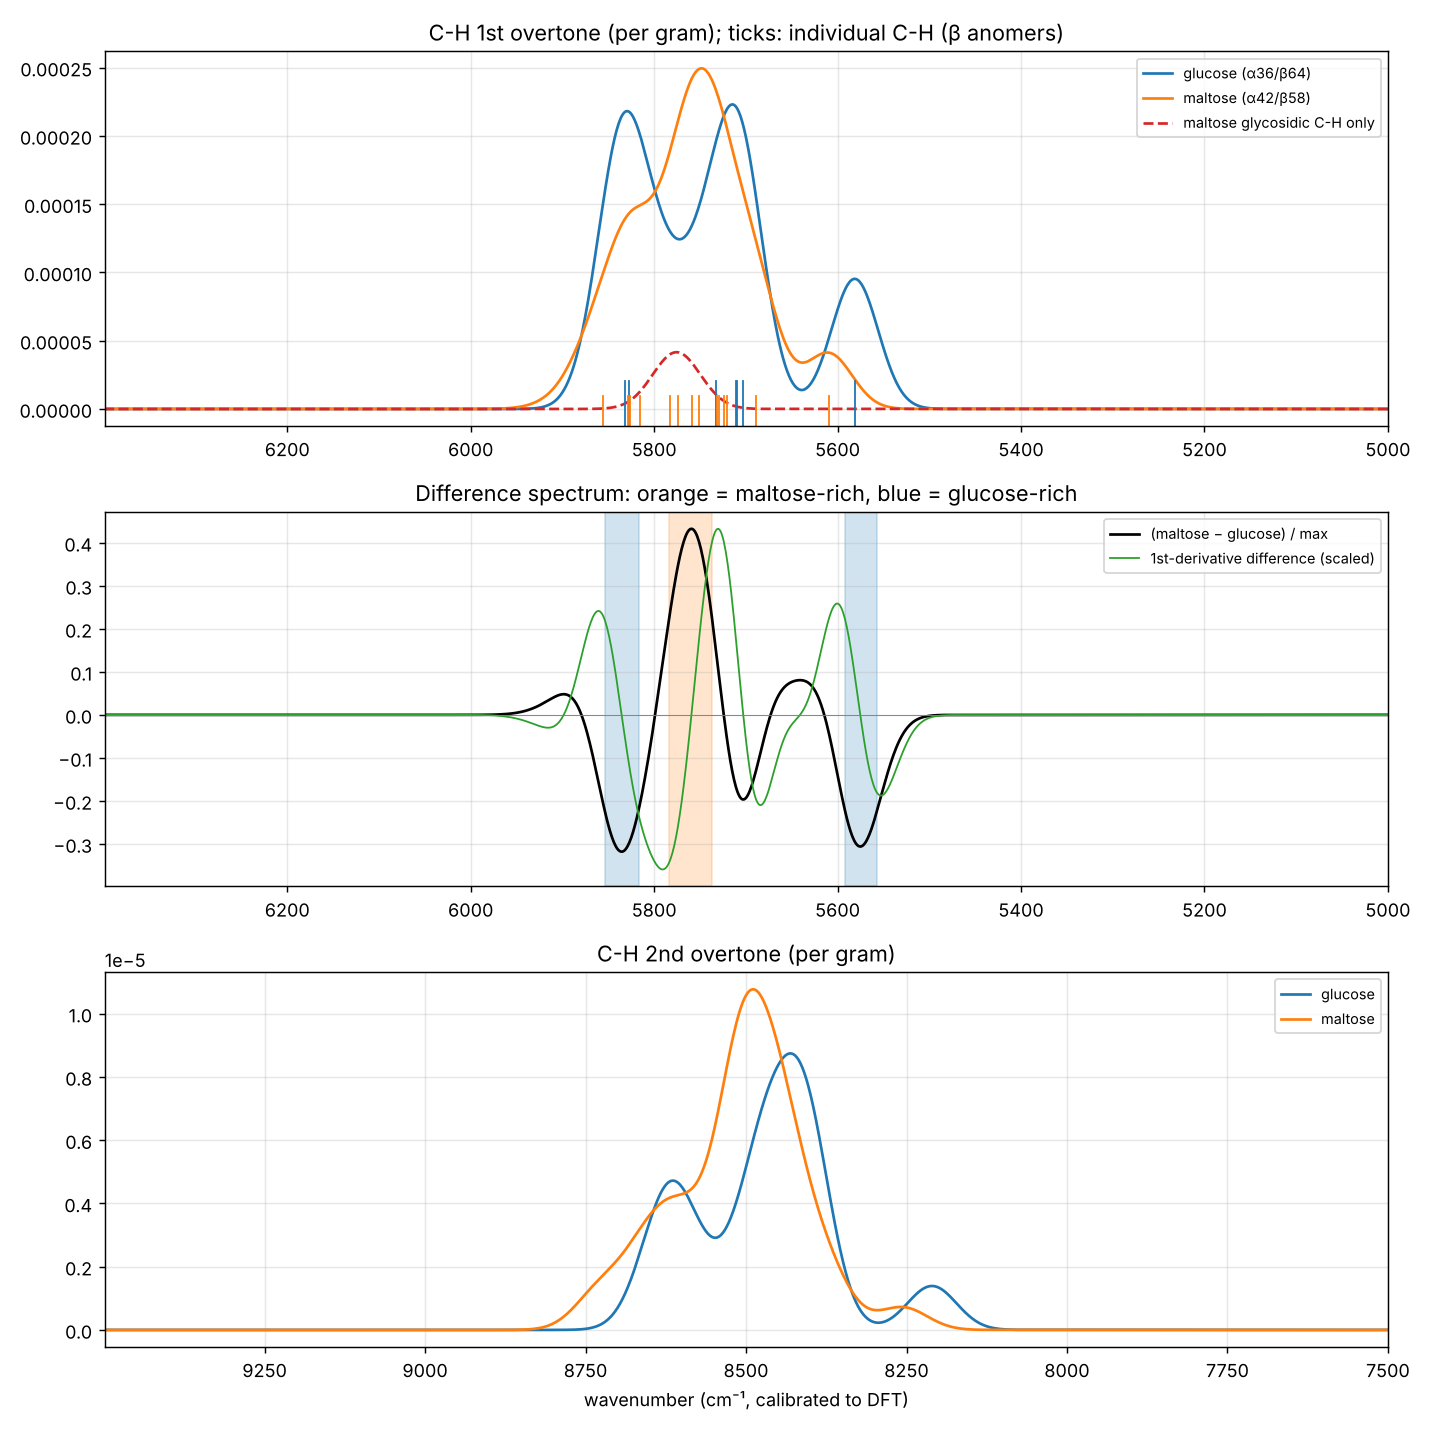
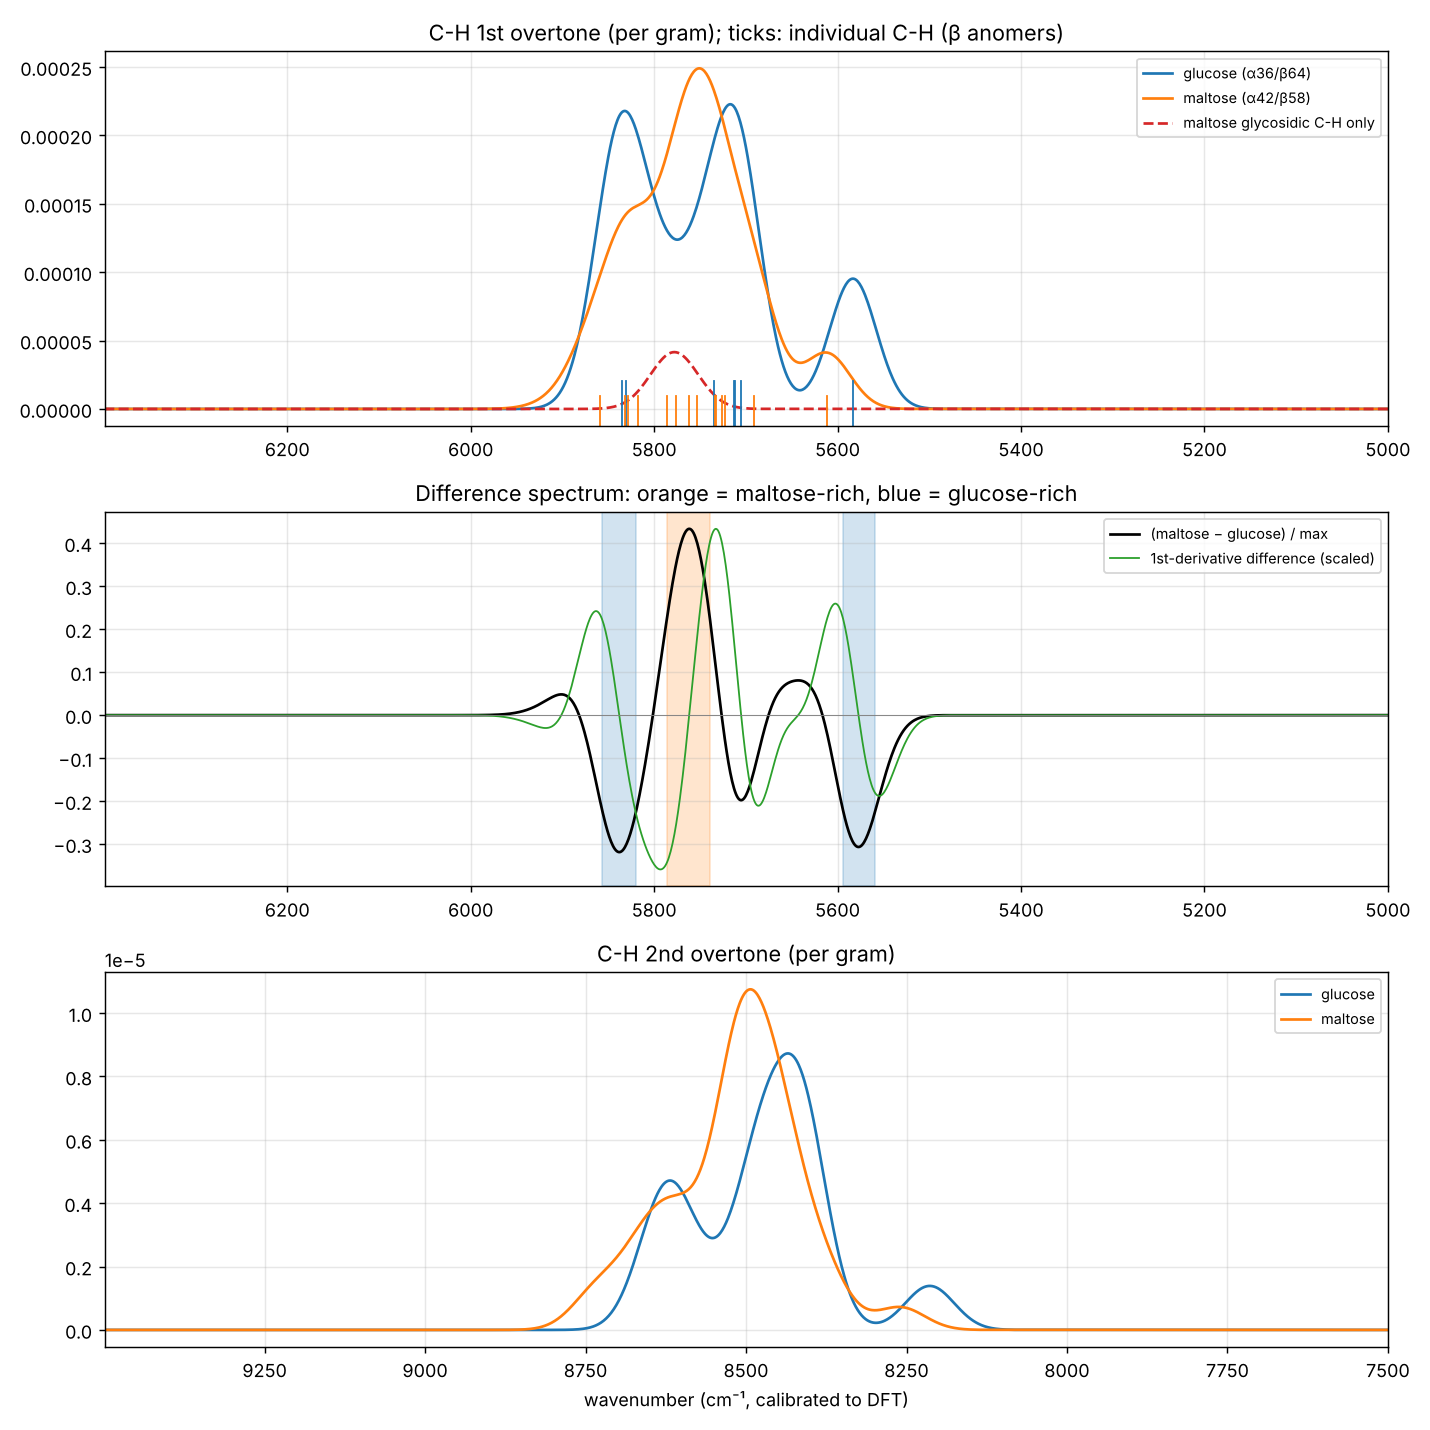
Add DFT-calibrated C-H local-mode results for glucose vs maltose
Claude-Session: https://claude.ai/code/session_012eAUzWctLyzcsK6JoLnE9m

diff --git a/results_localmode/report_cal.md b/results_localmode/report_cal.md
@@ -1,6 +1,6 @@
 # C-H local-mode 배음 계산 (GFN2-xTB → B3LYP/6-31G** 보정, 물 용매 모델)
 
-포도당 전체 C-H 1차 배음 평균 (계산 원값): 5750 cm⁻¹ (1739 nm)
+포도당 전체 C-H 1차 배음 평균 (계산 원값): 5752 cm⁻¹ (1738 nm)
 
 Δ = 해당 C-H의 1차 배음 − 포도당 평균 (cm⁻¹). 절대값보다 Δ가 더 믿을 만함.
 
@@ -8,86 +8,87 @@
 
 | 분자 | C-H | 유형 | 방향 | ωe | ωexe | 1차 배음 cm⁻¹ | Δ | 2차 배음 cm⁻¹ |
 |---|---|---|---|---|---|---|---|---|
-| a-glucose | C1-H | anomeric H-C(O5)(OH) | eq | 2917 | 68.6 | 5753 | +3 | 8484 |
-| a-glucose | C2-H | H-C-O-H | ax | 2984 | 65.2 | 5857 | +107 | 8644 |
-| a-glucose | C3-H | H-C-O-H | ax | 2891 | 69.7 | 5713 | -37 | 8419 |
-| a-glucose | C4-H | H-C-O-H | ax | 2887 | 72.5 | 5696 | -54 | 8387 |
-| a-glucose | C5-H | H-C-O-C (ring O5) | ax | 2914 | 69.6 | 5745 | -5 | 8469 |
-| a-glucose | C6-Ha | CH2-OH | CH2 | 2945 | 68.4 | 5790 | +40 | 8540 |
-| a-glucose | C6-Hb | CH2-OH | CH2 | 2980 | 65.8 | 5849 | +99 | 8634 |
-| b-glucose | C1-H | anomeric H-C(O5)(OH) | ax | 2810 | 75.4 | 5581 | -169 | 8210 |
-| b-glucose | C2-H | H-C-O-H | ax | 2904 | 69.1 | 5732 | -18 | 8449 |
-| b-glucose | C3-H | H-C-O-H | ax | 2892 | 70.8 | 5710 | -40 | 8410 |
-| b-glucose | C4-H | H-C-O-H | ax | 2894 | 71.3 | 5710 | -39 | 8412 |
-| b-glucose | C5-H | H-C-O-C (ring O5) | ax | 2888 | 71.3 | 5703 | -47 | 8402 |
-| b-glucose | C6-Ha | CH2-OH | CH2 | 2966 | 66.4 | 5828 | +78 | 8601 |
-| b-glucose | C6-Hb | CH2-OH | CH2 | 2970 | 66.3 | 5832 | +82 | 8608 |
-| b-maltose | non-red. C1-H | anomeric H-C(O5)(O-C(glyc)) | eq | 2941 | 71.3 | 5774 | +24 | 8515 |
-| b-maltose | non-red. C2-H | H-C-O-H | ax | 2927 | 70.1 | 5759 | +9 | 8488 |
-| b-maltose | non-red. C3-H | H-C-O-H | ax | 2904 | 71.2 | 5724 | -26 | 8432 |
-| b-maltose | non-red. C4-H | H-C-O-H | ax | 2883 | 72.9 | 5689 | -61 | 8376 |
-| b-maltose | non-red. C5-H | H-C-O-C (ring O5) | ax | 2925 | 71.8 | 5751 | +1 | 8474 |
-| b-maltose | non-red. C6-Ha | CH2-OH | CH2 | 2959 | 67.1 | 5815 | +65 | 8581 |
-| b-maltose | non-red. C6-Hb | CH2-OH | CH2 | 2969 | 66.8 | 5829 | +79 | 8602 |
-| b-maltose | red. C1-H | anomeric H-C(O5)(OH) | ax | 2828 | 74.3 | 5610 | -140 | 8256 |
-| b-maltose | red. C2-H | H-C-O-H | ax | 2903 | 69.2 | 5731 | -19 | 8447 |
-| b-maltose | red. C3-H | H-C-O-H | ax | 2909 | 71.5 | 5730 | -20 | 8440 |
-| b-maltose | red. C4-H | H-C-O-C(glyc) | ax | 2949 | 71.6 | 5783 | +33 | 8524 |
-| b-maltose | red. C5-H | H-C-O-C (ring O5) | ax | 2904 | 72.2 | 5721 | -29 | 8427 |
-| b-maltose | red. C6-Ha | CH2-OH | CH2 | 2968 | 67.3 | 5826 | +76 | 8598 |
-| b-maltose | red. C6-Hb | CH2-OH | CH2 | 2988 | 66.7 | 5856 | +106 | 8644 |
-| a-maltose | non-red. C1-H | anomeric H-C(O5)(O-C(glyc)) | eq | 2944 | 71.3 | 5777 | +27 | 8520 |
-| a-maltose | non-red. C2-H | H-C-O-H | ax | 2881 | 73.4 | 5685 | -65 | 8369 |
-| a-maltose | non-red. C3-H | H-C-O-H | ax | 2910 | 70.7 | 5734 | -16 | 8447 |
-| a-maltose | non-red. C4-H | H-C-O-H | ax | 2887 | 72.4 | 5696 | -54 | 8388 |
-| a-maltose | non-red. C5-H | H-C-O-C (ring O5) | ax | 2912 | 73.1 | 5728 | -22 | 8437 |
-| a-maltose | non-red. C6-Ha | CH2-OH | CH2 | 2998 | 65.1 | 5875 | +125 | 8676 |
-| a-maltose | non-red. C6-Hb | CH2-OH | CH2 | 2915 | 71.1 | 5740 | -10 | 8458 |
-| a-maltose | red. C1-H | anomeric H-C(O5)(OH) | eq | 2920 | 68.0 | 5758 | +8 | 8494 |
-| a-maltose | red. C2-H | H-C-O-H | ax | 2984 | 65.4 | 5856 | +106 | 8642 |
-| a-maltose | red. C3-H | H-C-O-H | ax | 2914 | 69.8 | 5743 | -7 | 8465 |
-| a-maltose | red. C4-H | H-C-O-C(glyc) | ax | 2938 | 72.3 | 5765 | +15 | 8495 |
-| a-maltose | red. C5-H | H-C-O-C (ring O5) | ax | 2935 | 70.0 | 5770 | +20 | 8506 |
-| a-maltose | red. C6-Ha | CH2-OH | CH2 | 2935 | 69.3 | 5774 | +24 | 8515 |
-| a-maltose | red. C6-Hb | CH2-OH | CH2 | 3025 | 65.2 | 5911 | +161 | 8729 |
+| a-glucose | C1-H | anomeric H-C(O5)(OH) | eq | 2917 | 68.6 | 5755 | +3 | 8488 |
+| a-glucose | C2-H | H-C-O-H | ax | 2984 | 65.2 | 5859 | +107 | 8648 |
+| a-glucose | C3-H | H-C-O-H | ax | 2891 | 69.7 | 5715 | -37 | 8423 |
+| a-glucose | C4-H | H-C-O-H | ax | 2887 | 72.5 | 5698 | -54 | 8391 |
+| a-glucose | C5-H | H-C-O-C (ring O5) | ax | 2914 | 69.6 | 5747 | -5 | 8473 |
+| a-glucose | C6-Ha | CH2-OH | CH2 | 2945 | 68.4 | 5793 | +40 | 8544 |
+| a-glucose | C6-Hb | CH2-OH | CH2 | 2980 | 65.8 | 5851 | +99 | 8639 |
+| b-glucose | C1-H | anomeric H-C(O5)(OH) | ax | 2810 | 75.4 | 5583 | -169 | 8214 |
+| b-glucose | C2-H | H-C-O-H | ax | 2904 | 69.1 | 5735 | -18 | 8453 |
+| b-glucose | C3-H | H-C-O-H | ax | 2892 | 70.8 | 5712 | -40 | 8414 |
+| b-glucose | C4-H | H-C-O-H | ax | 2894 | 71.3 | 5713 | -40 | 8416 |
+| b-glucose | C5-H | H-C-O-C (ring O5) | ax | 2888 | 71.3 | 5705 | -47 | 8406 |
+| b-glucose | C6-Ha | CH2-OH | CH2 | 2966 | 66.4 | 5830 | +78 | 8605 |
+| b-glucose | C6-Hb | CH2-OH | CH2 | 2970 | 66.3 | 5835 | +83 | 8613 |
+| b-maltose | non-red. C1-H | anomeric H-C(O5)(O-C(glyc)) | eq | 2941 | 71.3 | 5776 | +24 | 8520 |
+| b-maltose | non-red. C2-H | H-C-O-H | ax | 2927 | 70.1 | 5762 | +9 | 8493 |
+| b-maltose | non-red. C3-H | H-C-O-H | ax | 2904 | 71.2 | 5726 | -26 | 8436 |
+| b-maltose | non-red. C4-H | H-C-O-H | ax | 2883 | 72.9 | 5691 | -61 | 8380 |
+| b-maltose | non-red. C5-H | H-C-O-C (ring O5) | ax | 2925 | 71.8 | 5753 | +1 | 8478 |
+| b-maltose | non-red. C6-Ha | CH2-OH | CH2 | 2959 | 67.1 | 5818 | +66 | 8586 |
+| b-maltose | non-red. C6-Hb | CH2-OH | CH2 | 2969 | 66.8 | 5831 | +79 | 8607 |
+| b-maltose | red. C1-H | anomeric H-C(O5)(OH) | ax | 2828 | 74.3 | 5612 | -141 | 8260 |
+| b-maltose | red. C2-H | H-C-O-H | ax | 2903 | 69.2 | 5734 | -19 | 8451 |
+| b-maltose | red. C3-H | H-C-O-H | ax | 2909 | 71.5 | 5732 | -20 | 8444 |
+| b-maltose | red. C4-H | H-C-O-C(glyc) | ax | 2949 | 71.6 | 5786 | +33 | 8528 |
+| b-maltose | red. C5-H | H-C-O-C (ring O5) | ax | 2904 | 72.2 | 5723 | -29 | 8431 |
+| b-maltose | red. C6-Ha | CH2-OH | CH2 | 2968 | 67.3 | 5829 | +77 | 8602 |
+| b-maltose | red. C6-Hb | CH2-OH | CH2 | 2988 | 66.7 | 5859 | +106 | 8649 |
+| a-maltose | non-red. C1-H | anomeric H-C(O5)(O-C(glyc)) | eq | 2944 | 71.3 | 5780 | +27 | 8524 |
+| a-maltose | non-red. C2-H | H-C-O-H | ax | 2881 | 73.4 | 5687 | -66 | 8373 |
+| a-maltose | non-red. C3-H | H-C-O-H | ax | 2910 | 70.7 | 5736 | -16 | 8451 |
+| a-maltose | non-red. C4-H | H-C-O-H | ax | 2887 | 72.4 | 5699 | -54 | 8392 |
+| a-maltose | non-red. C5-H | H-C-O-C (ring O5) | ax | 2912 | 73.1 | 5730 | -22 | 8441 |
+| a-maltose | non-red. C6-Ha | CH2-OH | CH2 | 2998 | 65.1 | 5878 | +125 | 8681 |
+| a-maltose | non-red. C6-Hb | CH2-OH | CH2 | 2915 | 71.1 | 5742 | -10 | 8462 |
+| a-maltose | red. C1-H | anomeric H-C(O5)(OH) | eq | 2920 | 68.0 | 5761 | +8 | 8498 |
+| a-maltose | red. C2-H | H-C-O-H | ax | 2984 | 65.4 | 5858 | +106 | 8647 |
+| a-maltose | red. C3-H | H-C-O-H | ax | 2914 | 69.8 | 5745 | -7 | 8469 |
+| a-maltose | red. C4-H | H-C-O-C(glyc) | ax | 2938 | 72.3 | 5768 | +15 | 8500 |
+| a-maltose | red. C5-H | H-C-O-C (ring O5) | ax | 2935 | 70.0 | 5773 | +21 | 8510 |
+| a-maltose | red. C6-Ha | CH2-OH | CH2 | 2935 | 69.3 | 5776 | +24 | 8519 |
+| a-maltose | red. C6-Hb | CH2-OH | CH2 | 3025 | 65.2 | 5913 | +161 | 8734 |
 
 ## 2. 유형별 평균 (모든 분자, Δ cm⁻¹, ± 표준편차, 개수)
 
 | 유형 | 축 C-H | 적도 C-H | 전체 |
 |---|---|---|---|
-| CH2-OH | – | – | +77 ± 43 (n=12) |
+| CH2-OH | – | – | +77 ± 44 (n=12) |
 | H-C-O-C (ring O5) | -14 ± 22 (n=6) | – | -14 ± 22 (n=6) |
 | H-C-O-C(glyc) | +24 ± 9 (n=2) | – | +24 ± 9 (n=2) |
 | H-C-O-H | -15 ± 50 (n=16) | – | -15 ± 50 (n=16) |
 | anomeric H-C(O5)(O-C(glyc)) | – | +26 ± 2 (n=2) | +26 ± 2 (n=2) |
-| anomeric H-C(O5)(OH) | -154 ± 14 (n=2) | +6 ± 3 (n=2) | -74 ± 81 (n=4) |
+| anomeric H-C(O5)(OH) | -155 ± 14 (n=2) | +6 ± 3 (n=2) | -75 ± 81 (n=4) |
 | (방향만) ax | | | -22 ± 57 (n=26) |
 | (방향만) eq | | | +16 ± 10 (n=4) |
-| (방향만) CH2 | | | +77 ± 43 (n=12) |
+| (방향만) CH2 | | | +77 ± 44 (n=12) |
 
 ## 3. 포도당 vs 말토오스 (그램당, 아노머 비율 반영, C-H당 FWHM 60 cm⁻¹ 가정)
 
-- 말토오스가 더 큰 구간 (차이 > 최대의 50 %): 5737–5784 cm⁻¹ (Δ -13~+34)
-- 포도당이 더 큰 구간: 5557–5592 cm⁻¹ (Δ -193~-158), 5817–5854 cm⁻¹ (Δ +67~+104)
-- 말토오스 글리코시드 C-H(비환원 C1-H, 환원 C4-H) 밴드 중심: b-maltose non-red. C1-H 5774 (Δ +24), b-maltose red. C4-H 5783 (Δ +33), a-maltose non-red. C1-H 5777 (Δ +27), a-maltose red. C4-H 5765 (Δ +15)
-- 최대 상대 차이 |Δ스펙트럼|/최대흡광: 0.432
+- 말토오스가 더 큰 구간 (차이 > 최대의 50 %): 5739–5786 cm⁻¹ (Δ -13~+34)
+- 포도당이 더 큰 구간: 5559–5594 cm⁻¹ (Δ -193~-158), 5820–5857 cm⁻¹ (Δ +68~+105)
+- 말토오스 글리코시드 C-H(비환원 C1-H, 환원 C4-H) 밴드 중심: b-maltose non-red. C1-H 5776 (Δ +24), b-maltose red. C4-H 5786 (Δ +33), a-maltose non-red. C1-H 5780 (Δ +27), a-maltose red. C4-H 5768 (Δ +15)
+- 최대 상대 차이 |Δ스펙트럼|/최대흡광: 0.433
 
 ## 4. xTB → DFT 보정 (1차 배음)
 
-DFT = 2109 + 0.672 × xTB  (쌍 8개, 잔차 RMSE 28 cm⁻¹)
+DFT = 2102 + 0.674 × xTB  (쌍 9개, 잔차 RMSE 27 cm⁻¹)
 
 | 분자 | C-H | 유형 | xTB | DFT | 보정 xTB |
 |---|---|---|---|---|---|
-| b-glucose | C1-H | anomeric H-C(O5)(OH) | 5171 | 5595 | 5584 |
-| b-glucose | C2-H | H-C-O-H | 5484 | 5754 | 5794 |
-| b-glucose | C4-H | H-C-O-H | 5437 | 5727 | 5762 |
-| b-glucose | C5-H | H-C-O-C (ring O5) | 5400 | 5723 | 5737 |
-| b-glucose | C6-Ha | CH2-OH | 5689 | 5917 | 5932 |
-| a-glucose | C1-H | anomeric H-C(O5)(OH) | 5499 | 5836 | 5804 |
-| a-glucose | C2-H | H-C-O-H | 5650 | 5932 | 5905 |
-| me-a-glucoside | C1-H | anomeric H-C(O5)(O-C(glyc)) | 5447 | 5802 | 5769 |
+| b-glucose | C1-H | anomeric H-C(O5)(OH) | 5171 | 5595 | 5586 |
+| b-glucose | C2-H | H-C-O-H | 5484 | 5754 | 5796 |
+| b-glucose | C4-H | H-C-O-H | 5437 | 5727 | 5765 |
+| b-glucose | C5-H | H-C-O-C (ring O5) | 5400 | 5723 | 5739 |
+| b-glucose | C6-Ha | CH2-OH | 5689 | 5917 | 5934 |
+| a-glucose | C1-H | anomeric H-C(O5)(OH) | 5499 | 5836 | 5806 |
+| a-glucose | C2-H | H-C-O-H | 5650 | 5932 | 5908 |
+| me-a-glucoside | C1-H | anomeric H-C(O5)(O-C(glyc)) | 5447 | 5802 | 5771 |
+| 4-OMe-b-glucose | C4-H | H-C-O-C(glyc) | 5487 | 5818 | 5798 |
 
 ## 5. 파장으로 환산한 결과 (보정값)
 
-- 말토오스가 더 큰 구간: 5737–5784 cm⁻¹ = 1729–1743 nm
-- 포도당이 더 큰 구간: 5557–5592 cm⁻¹ = 1788–1800 nm, 5817–5854 cm⁻¹ = 1708–1719 nm
+- 말토오스가 더 큰 구간: 5739–5786 cm⁻¹ = 1728–1742 nm
+- 포도당이 더 큰 구간: 5559–5594 cm⁻¹ = 1788–1799 nm, 5820–5857 cm⁻¹ = 1707–1718 nm

diff --git a/README.md b/README.md
@@ -98,3 +98,43 @@ python run_ketose.py --repeats 5
 
 - 이성질체 비율은 D2O NMR 문헌의 근사값이고, 온도 기울기와 이성질체별 OH/CH 진동수 이동은 가정값입니다.
   순수 과당·알룰로스 용액을 여러 온도에서 실측해 보정하는 것이 다음 단계입니다.
+
+---
+
+# 포도당 vs 말토오스: C-H 1차 배음 영역 좁히기 (local mode 양자계산)
+
+```bash
+python run_localmode.py          # GFN2-xTB(물 용매), 포도당 α/β, 말토오스 α/β, 형태 여러 개
+python run_localmode_dft.py      # B3LYP/6-31G** 검증 (포도당 C-H + 글리코시드 모델 분자)
+python analyze_localmode.py cal  # xTB를 DFT로 보정해 영역 산출
+```
+
+결과: `results_localmode/report_cal.md`, `overtone_cal.png`, `ch_overtones_*.csv`
+
+## 방법
+
+1. RDKit로 형태를 만들고 두 고리가 모두 ⁴C₁ 의자형인 것만 골라 GFN2-xTB(ALPB 물)로 최적화했습니다. 2 kcal/mol 안의 형태를 Boltzmann 가중했습니다.
+2. C-H마다 H를 결합 방향으로 −0.30~+0.70 Å 움직이며 에너지와 쌍극자를 계산하고, 그 퍼텐셜로 1D 슈뢰딩거 방정식을 풀어 배음을 구했습니다. Morse 모양을 가정하지 않았습니다.
+3. 말토오스는 DFT로 직접 돌리기에 너무 커서(1점에 8분 이상), 글리코시드 C-H 환경을 작은 모델 분자로 DFT 검증했습니다.
+   - 메틸 α-글루코사이드 C1-H = 비환원 쪽 C1'-H
+   - 4-O-메틸 β-포도당 C4-H = 환원 쪽 C4-H
+4. xTB와 DFT 쌍 9개로 보정식을 만들었습니다: DFT = 2102 + 0.674 × xTB (잔차 27 cm⁻¹).
+5. 아노머 비율(포도당 α36/β64, 말토오스 α42/β58)을 반영해 그램당 스펙트럼을 만들었습니다.
+
+## 결과 (C-H 1차 배음, DFT 보정값)
+
+| 구간 | 의미 | 원인 |
+|---|---|---|
+| **1728–1745 nm** (5730–5790 cm⁻¹) | 말토오스가 더 큼 | 글리코시드 C-H (비환원 C1'-H, 환원 C4-H)가 일반 고리 C-H보다 +20~+90 cm⁻¹ 위 |
+| **1785–1800 nm** (5560–5600 cm⁻¹) | 포도당이 더 큼 | β 아노머의 축 방향 C1-H가 약 −160 cm⁻¹ 아래. 그램당 환원 말단이 포도당에 2배 |
+| **1705–1718 nm** (5820–5860 cm⁻¹) | 포도당이 더 큼 | α 아노머 C1-H / C2-H, CH2OH 쪽 |
+
+- 위치는 C-H당 밴드 폭 가정(40–140 cm⁻¹)과 관계없이 거의 그대로이고, 차이의 크기만 줄어듭니다.
+- H-C-O-H와 H-C-O-C라는 구분보다 **축/적도 방향과 아노머 여부**가 C-H 진동수를 더 크게 바꿉니다. 같은 H-C-O-H 안에서도 ±50 cm⁻¹ 퍼집니다.
+- xTB 원값은 절대 위치가 약 300–400 cm⁻¹ 낮고, 축 방향 아노머 C-H의 이동을 약 2배 과장합니다. 그래서 DFT로 보정한 값을 씁니다.
+
+## 한계
+
+- 보정 잔차 ±27 cm⁻¹(약 ±8 nm). α-말토오스는 쓸 만한 형태가 2개뿐이었습니다.
+- 물을 연속체 용매 모델로만 넣었고, C-H와 다른 진동의 결합(Fermi 공명 등)은 무시했습니다.
+- 계산 결과는 "어느 쪽에 신호가 몰리는가"까지입니다. 최종 경계는 실측으로 정해야 합니다.
